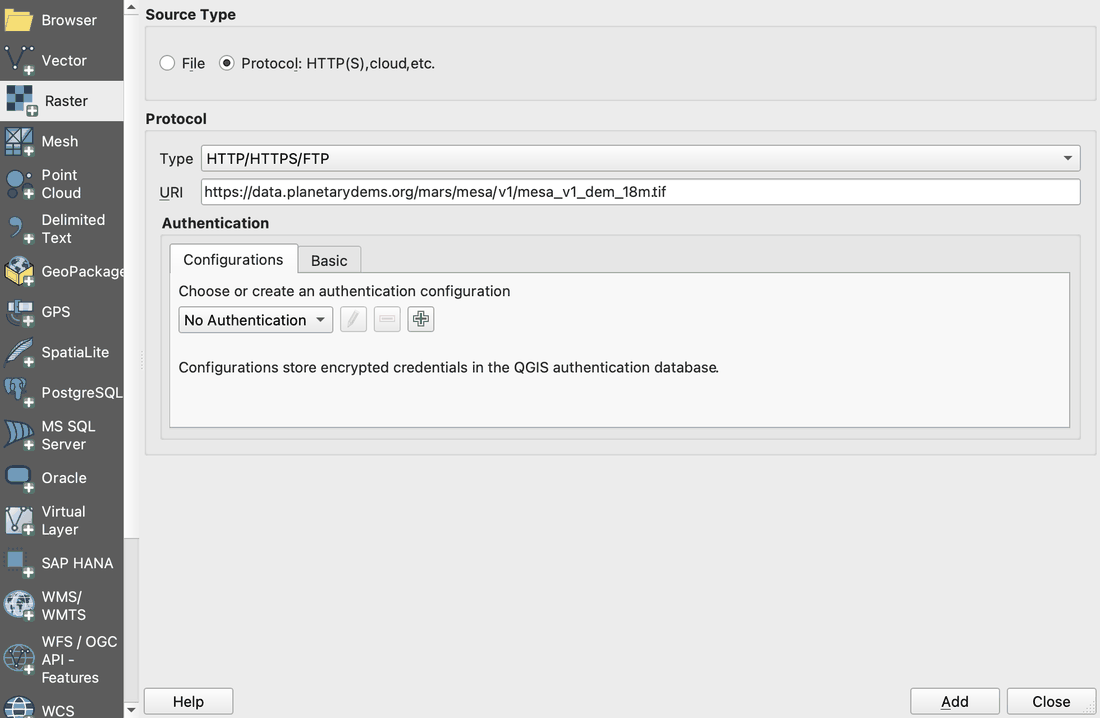
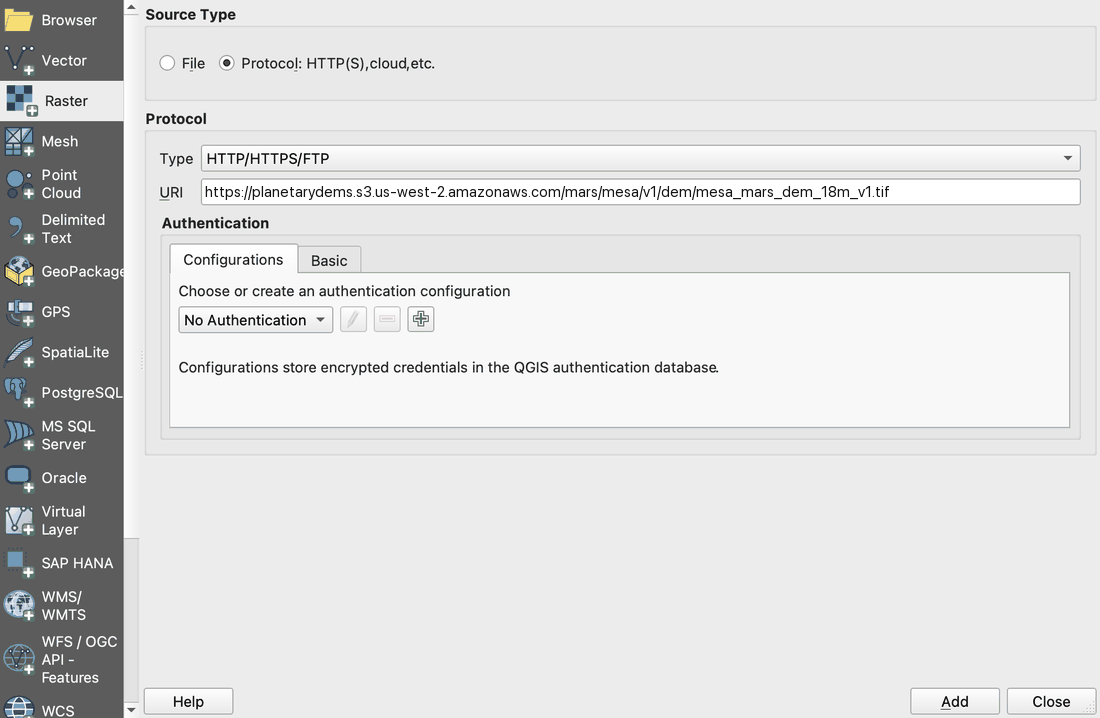
Use the release file names and S3 addresses in the data section
The products table, the code builders and the download tool now use the
release keys under https://planetarydems.s3.us-west-2.amazonaws.com/mars/mesa/v1/
(dem/mesa_mars_dem_18m_v1.tif, its _mask, the uncertainty median and class,
ctx_image/mesa_ctx_image_6m_v1.tif) instead of the data.planetarydems.org
placeholders. The QGIS step-1 screenshot shows the new DEM address. The
download button stays off until the bucket is open.

Changed region(s): [[0.1855, 0.2451, 0.8036, 0.2758]]

diff --git a/index.html b/index.html
@@ -256,17 +256,17 @@
     <p class="eyebrow">Data access</p>
     <h2>Reading subsets of the COG</h2>
     <p class="lede">MESA is distributed as a single 1.4 TB Cloud-Optimized GeoTIFF (COG). Subsets are read with HTTP range requests in GDAL, rasterio, or rioxarray. Only the 512 × 512 pixel tiles that intersect the requested area are transferred. In a test, ~12 MB were transferred for a 35 × 30 km subset at Jezero crater.</p>
-    <div class="callout"><b>Prototype.</b> Hosting is in preparation. The file addresses below are placeholders. The code was tested on a subset with the same file layout.</div>
+    <div class="callout"><b>Hosting in preparation.</b> The files will be in the public bucket <code>s3://planetarydems</code> (AWS region us-west-2), under <code>mars/mesa/v1/</code>, in the Registry of Open Data on AWS. An AWS account will not be needed. The addresses and the download button work once the bucket is open. The code was tested on a subset with the same file layout.</div>
 
     <p class="lede" style="font-size:15px">The four products are defined on one grid (global equirectangular, Mars sphere). Resampling is not required to overlay them.</p>
     <div class="files products">
       <table>
         <thead><tr><th>Product</th><th>Content</th><th>Grid and format</th><th>Status</th></tr></thead>
         <tbody>
-          <tr><td><b>MESA DEM</b><br><code>mesa_v1_dem_18m.tif</code></td><td>Elevation in meters above the MOLA areoid (the PEDR height convention), float32, nodata −9999</td><td>1,185,494 × 592,747 pixels at 18 m. One lossless COG, ~1.4 TB</td><td><span class="pill">Coming soon</span></td></tr>
-          <tr><td><b>Mask</b><br><code>mesa_v1_mask_18m.tif</code></td><td>0 = predicted from CTX, 1 = infilled by the inpainting network, 2 = short bridge or seam replacement (MOLA-guided, up to 180 m), 3 = MOLA fill with matched edges, 255 = nodata</td><td>Same grid. uint8 COG, 1.2 GB</td><td><span class="pill">Coming soon</span></td></tr>
-          <tr><td><b>Uncertainty map</b><br><code>mesa_v1_uncertainty_18m.tif</code></td><td>Expected error of each pixel in meters, from the median error of test pixels with the same slope, local incidence, and distance to the nearest laser shot. Infilled pixels are assigned by distance to the nearest predicted pixel. A class raster accompanies the map (reliable &lt;10 m, caution 10–25 m, unreliable ≥25 m, and infilled).</td><td>Same grid. COG</td><td><span class="pill">Coming soon</span></td></tr>
-          <tr><td><b>CTX image mosaic</b><br><code>mesa_v1_ctx_6m.tif</code></td><td>8-bit CTX image. Each pixel is taken from the registered image that dominates the DEM at that location.</td><td>DEM grid at one third of the pixel size (6 m, 3 × 3 per DEM pixel). One lossless COG, ~4.2 TB</td><td><span class="pill">Coming soon</span></td></tr>
+          <tr><td><b>MESA DEM</b><br><code>dem/<wbr>mesa_mars_dem_18m_v1.tif</code></td><td>Elevation in meters above the MOLA areoid (the PEDR height convention), float32, nodata −9999</td><td>1,185,494 × 592,747 pixels at 18 m. One lossless COG, ~1.4 TB</td><td><span class="pill">Coming soon</span></td></tr>
+          <tr><td><b>Mask</b><br><code>dem/<wbr>mesa_mars_dem_18m_v1_mask.tif</code></td><td>0 = predicted from CTX, 1 = infilled by the inpainting network, 2 = short bridge or seam replacement (MOLA-guided, up to 180 m), 3 = MOLA fill with matched edges, 255 = nodata</td><td>Same grid. uint8 COG, 1.2 GB</td><td><span class="pill">Coming soon</span></td></tr>
+          <tr><td><b>Uncertainty map</b><br><code>uncertainty/<wbr>mesa_mars_uncertainty_median_m_v1.tif</code></td><td>Expected error of each pixel in meters, from the median error of test pixels with the same slope, local incidence, and distance to the nearest laser shot. Infilled pixels are assigned by distance to the nearest predicted pixel. A class raster accompanies the map (<code>mesa_mars_uncertainty_class_v1.tif</code>: reliable &lt;10 m, caution 10–25 m, unreliable ≥25 m, and infilled).</td><td>Same grid. float32 COG, 144 GB</td><td><span class="pill">Coming soon</span></td></tr>
+          <tr><td><b>CTX image mosaic</b><br><code>ctx_image/<wbr>mesa_ctx_image_6m_v1.tif</code></td><td>8-bit CTX image. Each pixel is taken from the registered image that dominates the DEM at that location.</td><td>DEM grid at one third of the pixel size (6 m, 3 × 3 per DEM pixel). One lossless COG, ~4.2 TB</td><td><span class="pill">Coming soon</span></td></tr>
         </tbody>
       </table>
     </div>
@@ -408,7 +408,7 @@ const esc = (s) => String(s).replace(/[&<>"]/g, (c) => ({ '&': '&amp;', '<': '&l
 const fmtLat = (v) => `${Math.abs(v).toFixed(2)}°${v >= 0 ? 'N' : 'S'}`, fmtLon = (v) => `${Math.abs(v).toFixed(2)}°${v >= 0 ? 'E' : 'W'}`;
 // a standalone copy defines window.EMBED = {sites, tables, img: {path: dataURI}, viewer: {site: {file: dataURI}}}
 const EMBED = window.EMBED || null;
-const BUILD = '202611171230';                                   // set by build_site.py; new file addresses on every release
+const BUILD = '202611171431';                                   // set by build_site.py; new file addresses on every release
 const withV = (p) => (BUILD ? `${p}?v=${BUILD}` : p);
 const [SITES, T] = EMBED ? [EMBED.sites, EMBED.tables]
   : await Promise.all([fetch(withV('data/sites.json')).then((r) => r.json()), fetch(withV('data/tables.json')).then((r) => r.json())]);
@@ -490,8 +490,8 @@ seg('c-mode', (v) => (v === '3d' ? interactive() : compare()));
 renderThemes(); renderSites(); show();
 
 // ---------------- area builder + code ----------------
-const DEM = 'https://data.planetarydems.org/mars/mesa/v1/mesa_v1_dem_18m.tif';
-const MASK = 'https://data.planetarydems.org/mars/mesa/v1/mesa_v1_mask_18m.tif';
+const DEM = 'https://planetarydems.s3.us-west-2.amazonaws.com/mars/mesa/v1/dem/mesa_mars_dem_18m_v1.tif';
+const MASK = 'https://planetarydems.s3.us-west-2.amazonaws.com/mars/mesa/v1/dem/mesa_mars_dem_18m_v1_mask.tif';
 const NX = 1185494, NY = 592747, TILE = 512, KM_DEG = 3396.19 * Math.PI / 180;
 const presets = SITES.filter((s, i, a) => a.findIndex((t) => t.site === s.site) === i).map((s) => {
   const hw = s.window_km[0] / 2 / (KM_DEG * Math.cos(s.lat * Math.PI / 180)), hh = s.window_km[1] / 2 / KM_DEG;
@@ -526,7 +526,7 @@ function code(lang, b) {
   const box = `west, south, east, north = ${num(b.w)}, ${num(b.s)}, ${num(b.e)}, ${num(b.n)}`;
   if (lang === 'rioxarray') return `import rioxarray
 
-DEM = "${DEM}"   # placeholder address
+DEM = "${DEM}"   # public, no AWS account needed
 MARS = "+proj=longlat +R=3396190 +no_defs +type=crs"   # Mars sphere, degrees
 
 ${box}   # ${b.label}
@@ -538,7 +538,7 @@ area.rio.to_raster("${b.slug}_mesa.tif", compress="deflate")  # intersecting til
 from rasterio.warp import transform_bounds
 from rasterio.windows import from_bounds
 
-DEM = "${DEM}"   # placeholder address
+DEM = "${DEM}"   # public, no AWS account needed
 MARS = "+proj=longlat +R=3396190 +no_defs +type=crs"   # Mars sphere, degrees
 ${box}   # ${b.label}
 
@@ -591,7 +591,7 @@ coarse = rioxarray.open_rasterio(DEM, masked=True, overview_level=3)   # 288 m p
 region = coarse.rio.clip_box(-30, -30, 0, 0, crs=MARS)                 # 30° x 30°, Margaritifer Terra
 region.rio.to_raster("region_288m.tif", compress="deflate")`],
   'r-mask': ['py', (b) => `# continued from the code above
-MASK = "${MASK}"   # placeholder address
+MASK = "${MASK}"   # public, no AWS account needed
 
 mask = rioxarray.open_rasterio(MASK).rio.clip_box(${num(b.w)}, ${num(b.s)}, ${num(b.e)}, ${num(b.n)}, crs=MARS)
 infilled = mask.squeeze().isin([1, 2, 3])   # 0 = predicted from CTX, 1-3 = filled, 255 = nodata
